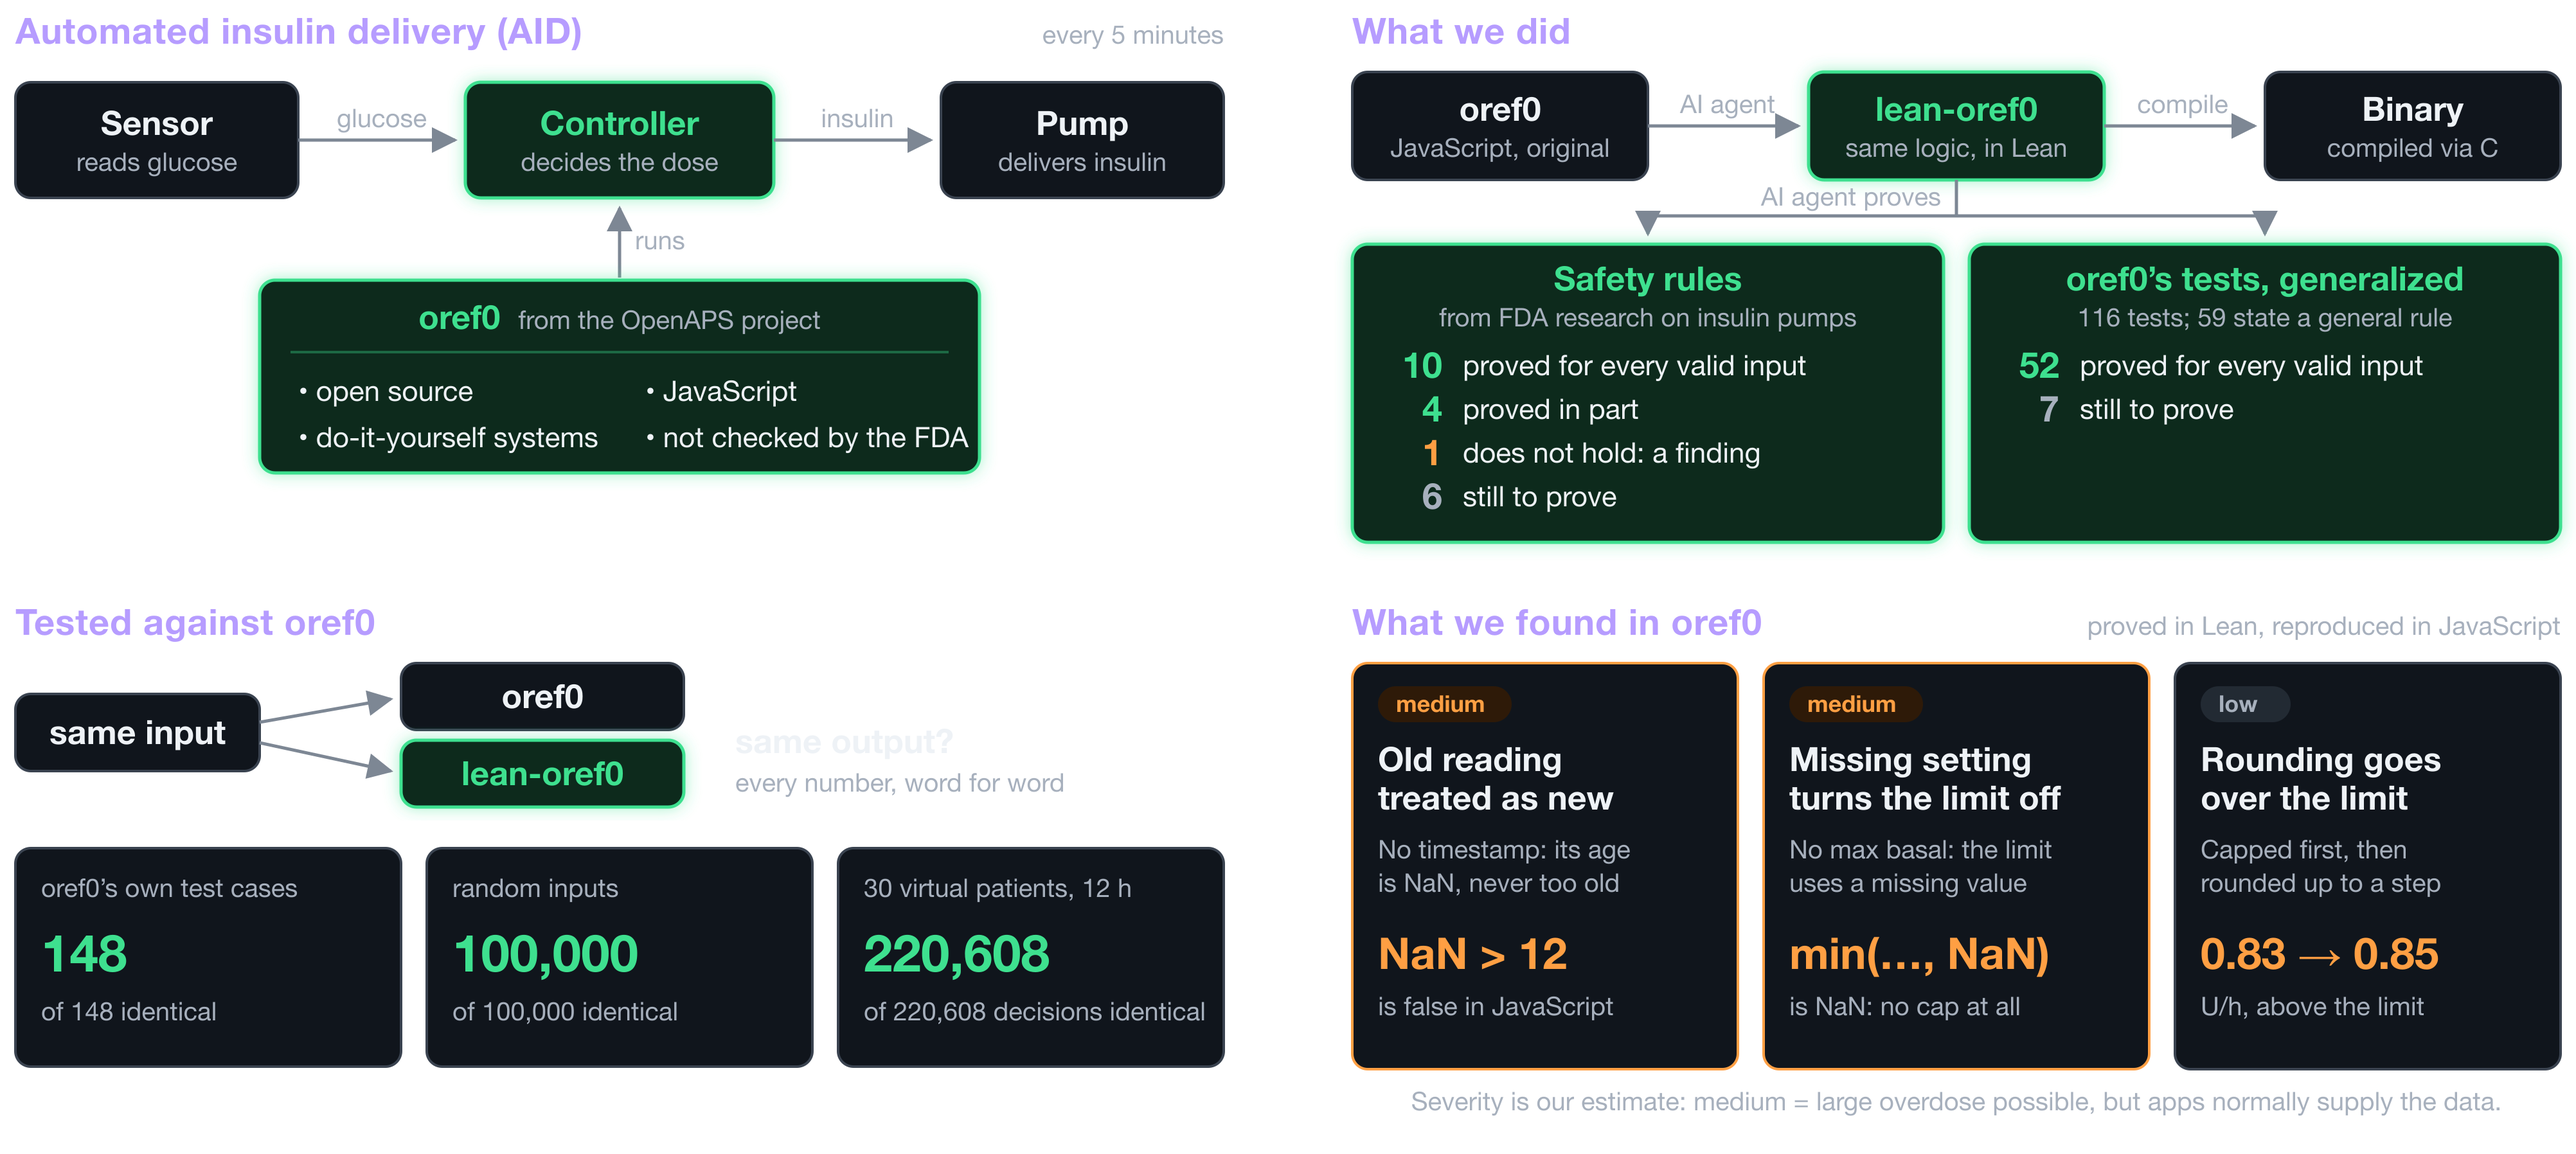
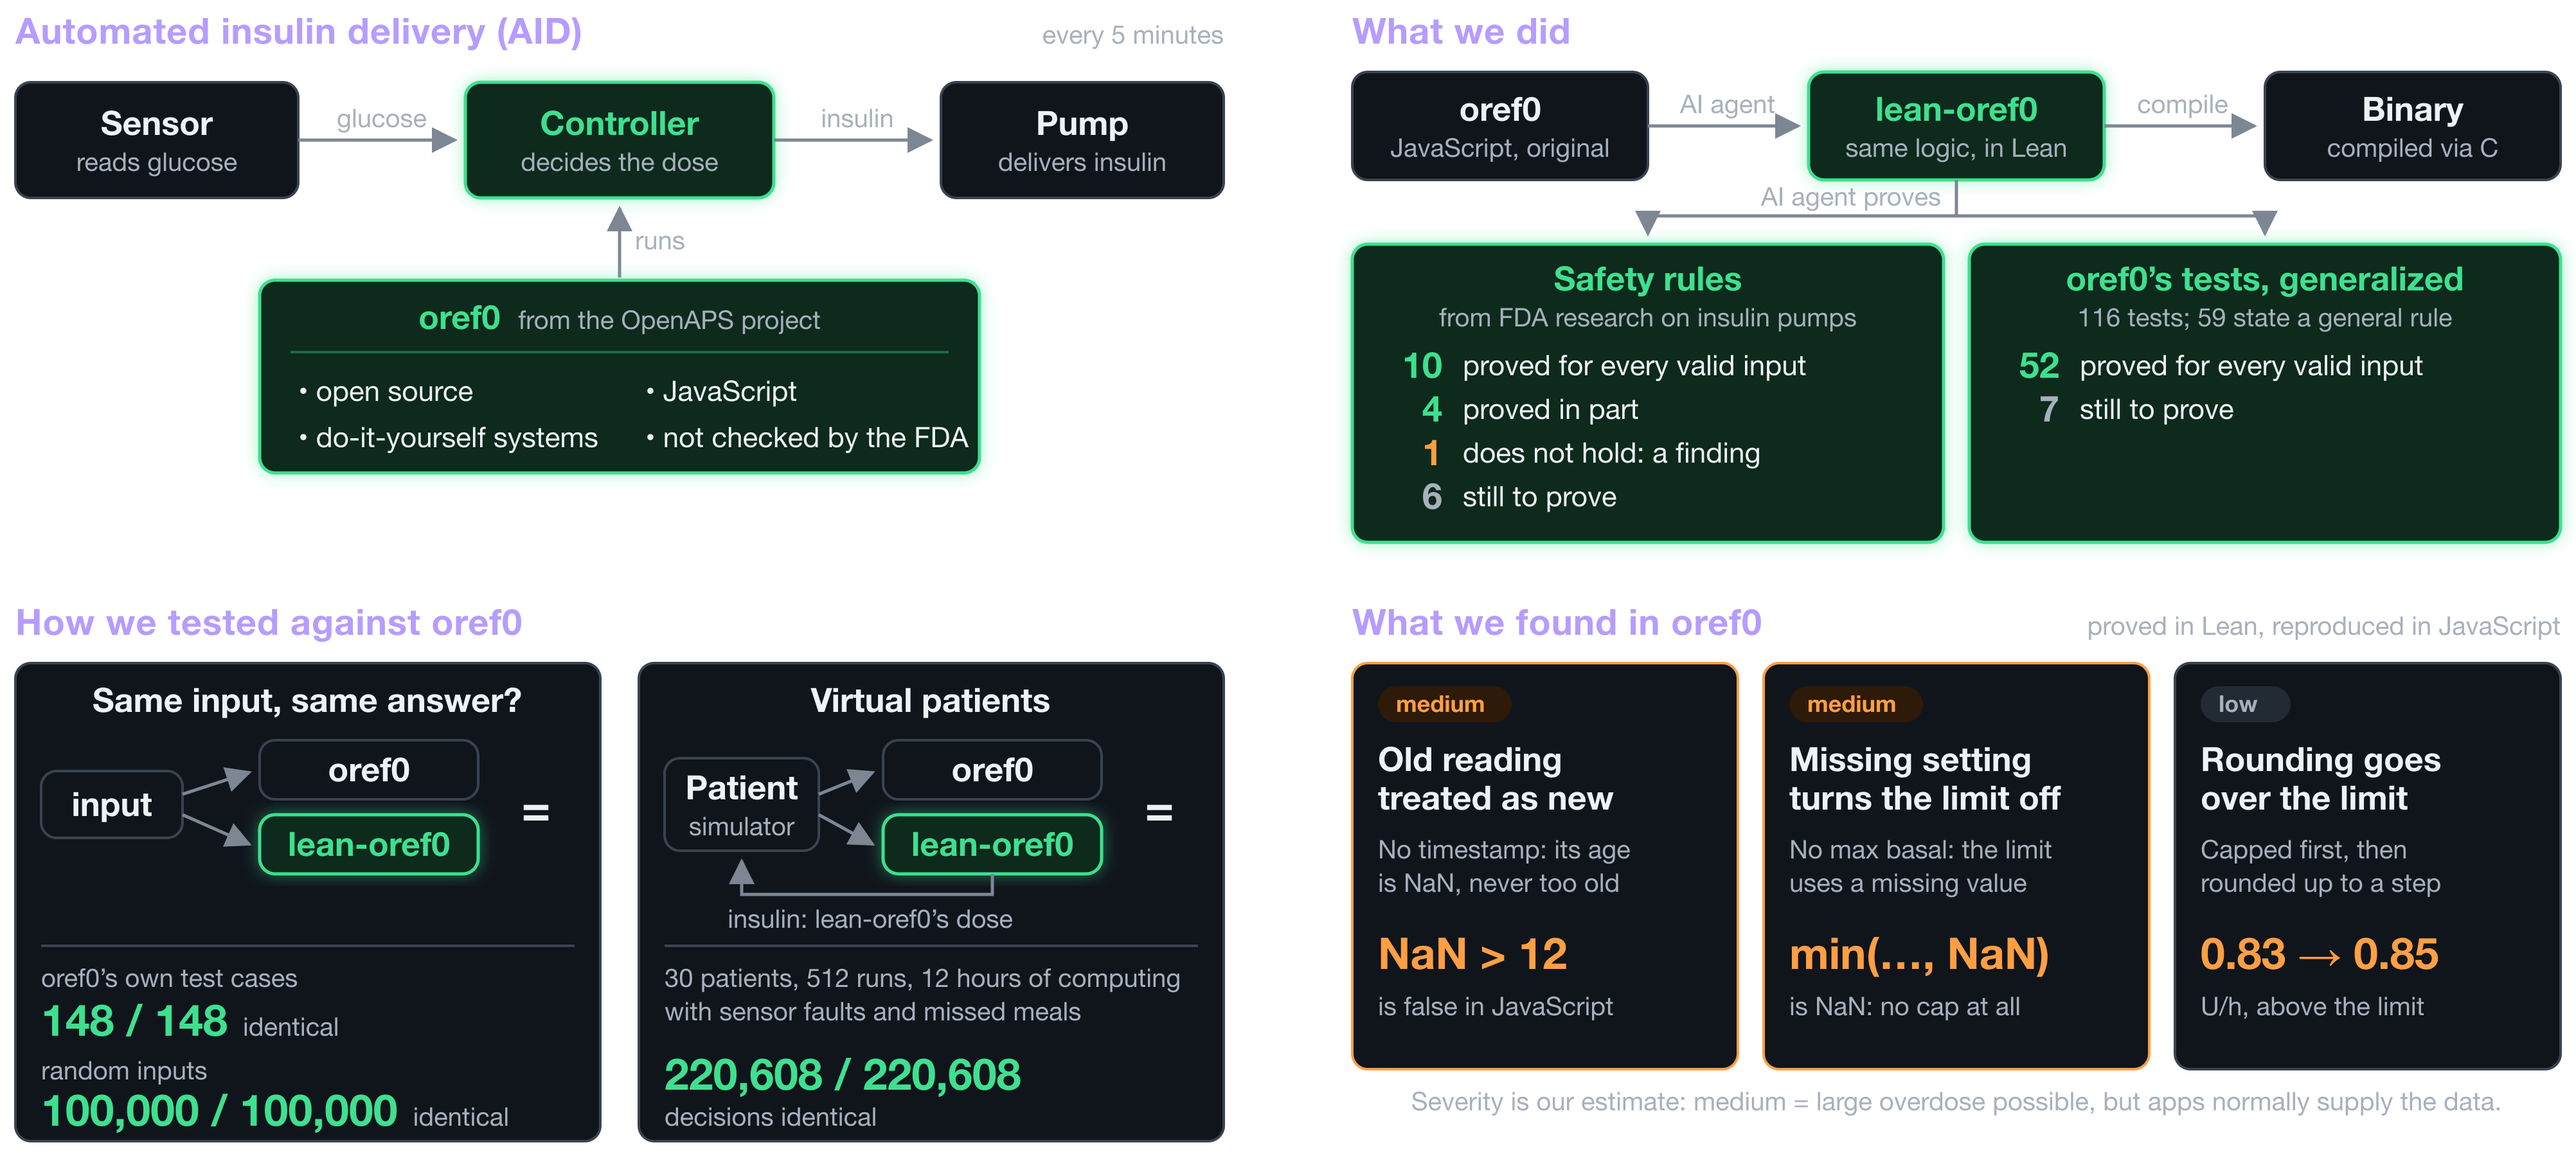
Compact slide: tested panel uses the page's two-part design (same input / virtual patients)

Changed region(s): [[0.0, 0.5301, 0.499, 0.9978]]

diff --git a/site/img/make_compact.py b/site/img/make_compact.py
@@ -44,6 +44,7 @@ STYLE = f"""
     .nm {{ font-size: 28px; font-weight: 700; fill: {MUTED}; }}
     .no {{ font-size: 28px; font-weight: 700; fill: {ORANGE}; }}
     .big {{ font-size: 40px; font-weight: 700; fill: {GREEN}; }}
+    .bigs {{ font-size: 34px; font-weight: 700; fill: {GREEN}; }}
     .bigo {{ font-size: 34px; font-weight: 700; fill: {ORANGE}; }}
     .pill {{ font-size: 18px; font-weight: 700; }}
     .line {{ stroke: {LINE}; stroke-width: 2.5; fill: none; }}
@@ -130,26 +131,48 @@ def did():
 
 # 3. Tested against oref0 --------------------------------------------------------
 def tested():
-    b = text(0, 30, "h", "Tested against oref0")
-    b += box(0, 76, 190, 60, "same input")
-    b += box(300, 52, 220, 52, "oref0")
-    b += box(300, 112, 220, 52, "lean-oref0", main=True)
-    b += arrow("M190 98 L292 80") + arrow("M190 114 L292 136")
-    b += text(560, 122, "t", "same output?")
-    b += text(560, 152, "s", "every number, word for word")
-    tiles = [("oref0’s own test cases", "148", "of 148 identical"),
-             ("random inputs", "100,000", "of 100,000 identical"),
-             ("30 virtual patients, 12 h", "220,608", "of 220,608 decisions identical")]
-    for k, (lab, big, sub) in enumerate(tiles):
-        x = k * 320
-        w = 300
-        b += f'  <rect class="box" x="{x}" y="196" width="{w}" height="170" rx="12"/>\n'
-        b += text(x + 20, 234, "s", lab)
-        b += text(x + 20, 292, "big", big)
-        b += text(x + 20, 330, "s", sub)
-    return svg(b, "Tested against oref0: the same input goes to oref0 and lean-oref0. oref0's own test cases: 148 of 148 "
-                  "identical. Random inputs: 100,000 of 100,000 identical. 30 virtual patients over 12 hours of computing: "
-                  "220,608 of 220,608 decisions identical.", h=370)
+    b = text(0, 30, "h", "How we tested against oref0")
+
+    def pair(x0, top):
+        """oref0 above lean-oref0, fed from the left, '=' on the right."""
+        r = box(x0 + 190, top, 170, 46, "oref0")
+        r += box(x0 + 190, top + 58, 170, 46, "lean-oref0", main=True)
+        r += f'  <text class="t" x="{x0 + 405}" y="{top + 66}" text-anchor="middle" style="font-size:38px">=</text>\n'
+        return r
+
+    # left: same input, same answer
+    x0 = 0
+    b += f'  <rect class="box" x="{x0}" y="52" width="455" height="372" rx="12"/>\n'
+    b += text(x0 + 227, 90, "t", "Same input, same answer?", "middle")
+    b += box(x0 + 20, 136, 110, 52, "input")
+    b += pair(x0, 112)
+    b += arrow(f"M{x0 + 130} 154 L{x0 + 182} 137") + arrow(f"M{x0 + 130} 170 L{x0 + 182} 193")
+    b += f'  <line x1="{x0 + 20}" y1="272" x2="{x0 + 435}" y2="272" stroke="{STROKE}" stroke-width="2"/>\n'
+    b += text(x0 + 20, 304, "s", "oref0’s own test cases")
+    b += (f'  <text x="{x0 + 20}" y="342"><tspan class="bigs">148 / 148</tspan>'
+          f'<tspan class="s" dx="12">identical</tspan></text>\n')
+    b += text(x0 + 20, 376, "s", "random inputs")
+    b += (f'  <text x="{x0 + 20}" y="412"><tspan class="bigs">100,000 / 100,000</tspan>'
+          f'<tspan class="s" dx="12">identical</tspan></text>\n')
+
+    # right: virtual patients in a closed loop
+    x0 = 485
+    b += f'  <rect class="box" x="{x0}" y="52" width="455" height="372" rx="12"/>\n'
+    b += text(x0 + 227, 90, "t", "Virtual patients", "middle")
+    b += box(x0 + 20, 126, 120, 72, "Patient", "simulator")
+    b += pair(x0, 112)
+    b += arrow(f"M{x0 + 140} 154 L{x0 + 182} 137") + arrow(f"M{x0 + 140} 170 L{x0 + 182} 193")
+    b += arrow(f"M{x0 + 275} 216 V232 H{x0 + 80} V206")
+    b += text(x0 + 180, 258, "s", "insulin: lean-oref0’s dose", "middle")
+    b += f'  <line x1="{x0 + 20}" y1="272" x2="{x0 + 435}" y2="272" stroke="{STROKE}" stroke-width="2"/>\n'
+    b += text(x0 + 20, 304, "s", "30 patients, 512 runs, 12 hours of computing")
+    b += text(x0 + 20, 330, "s", "with sensor faults and missed meals")
+    b += text(x0 + 20, 384, "bigs", "220,608 / 220,608")
+    b += text(x0 + 20, 412, "s", "decisions identical")
+    return svg(b, "How we tested against oref0. Same input, same answer: oref0's own test cases, 148 of 148 identical; "
+                  "random inputs, 100,000 of 100,000 identical. Virtual patients in a closed loop: at every step oref0 and "
+                  "lean-oref0 decide on the same glucose history and lean-oref0's dose is given; 30 patients, 512 runs, "
+                  "12 hours of computing, 220,608 of 220,608 decisions identical.", h=430)
 
 
 # 4. What we found ---------------------------------------------------------------
